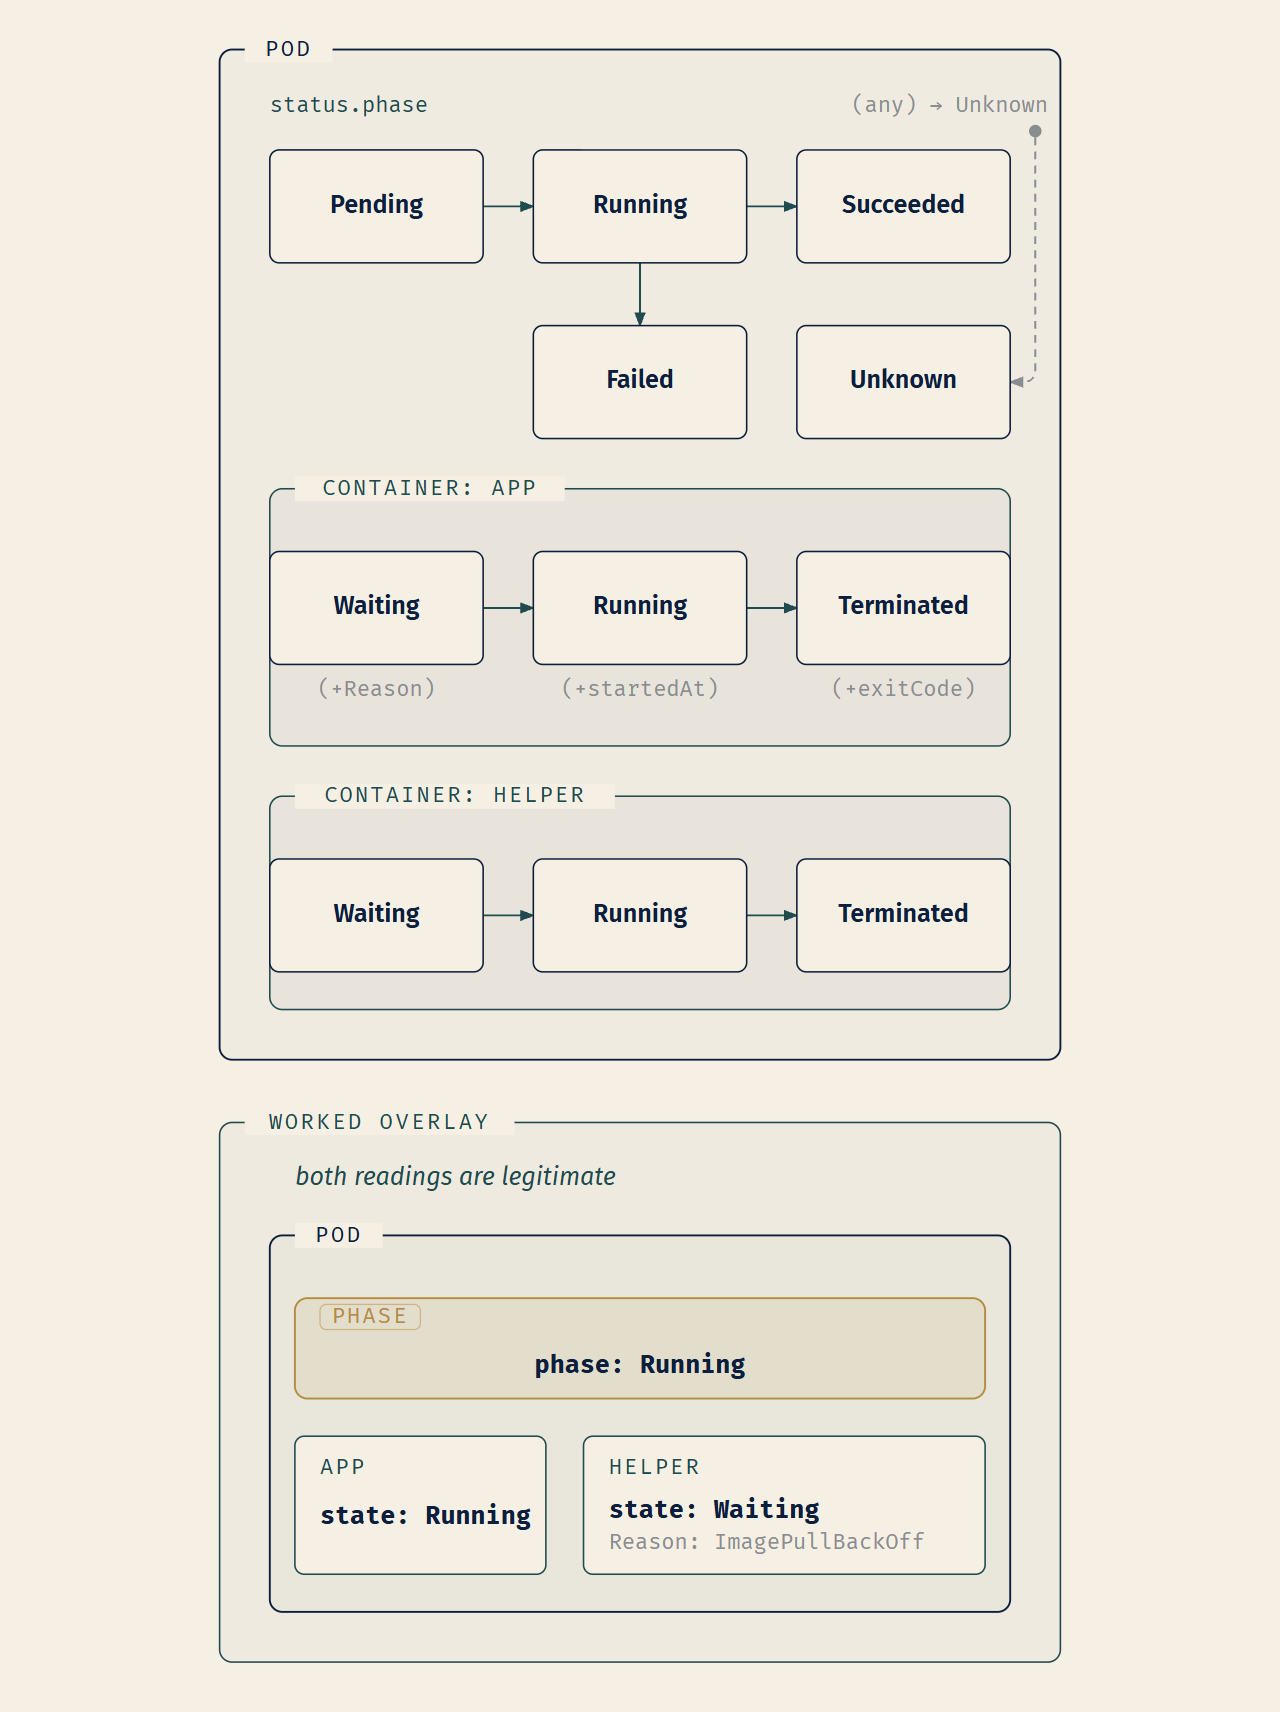
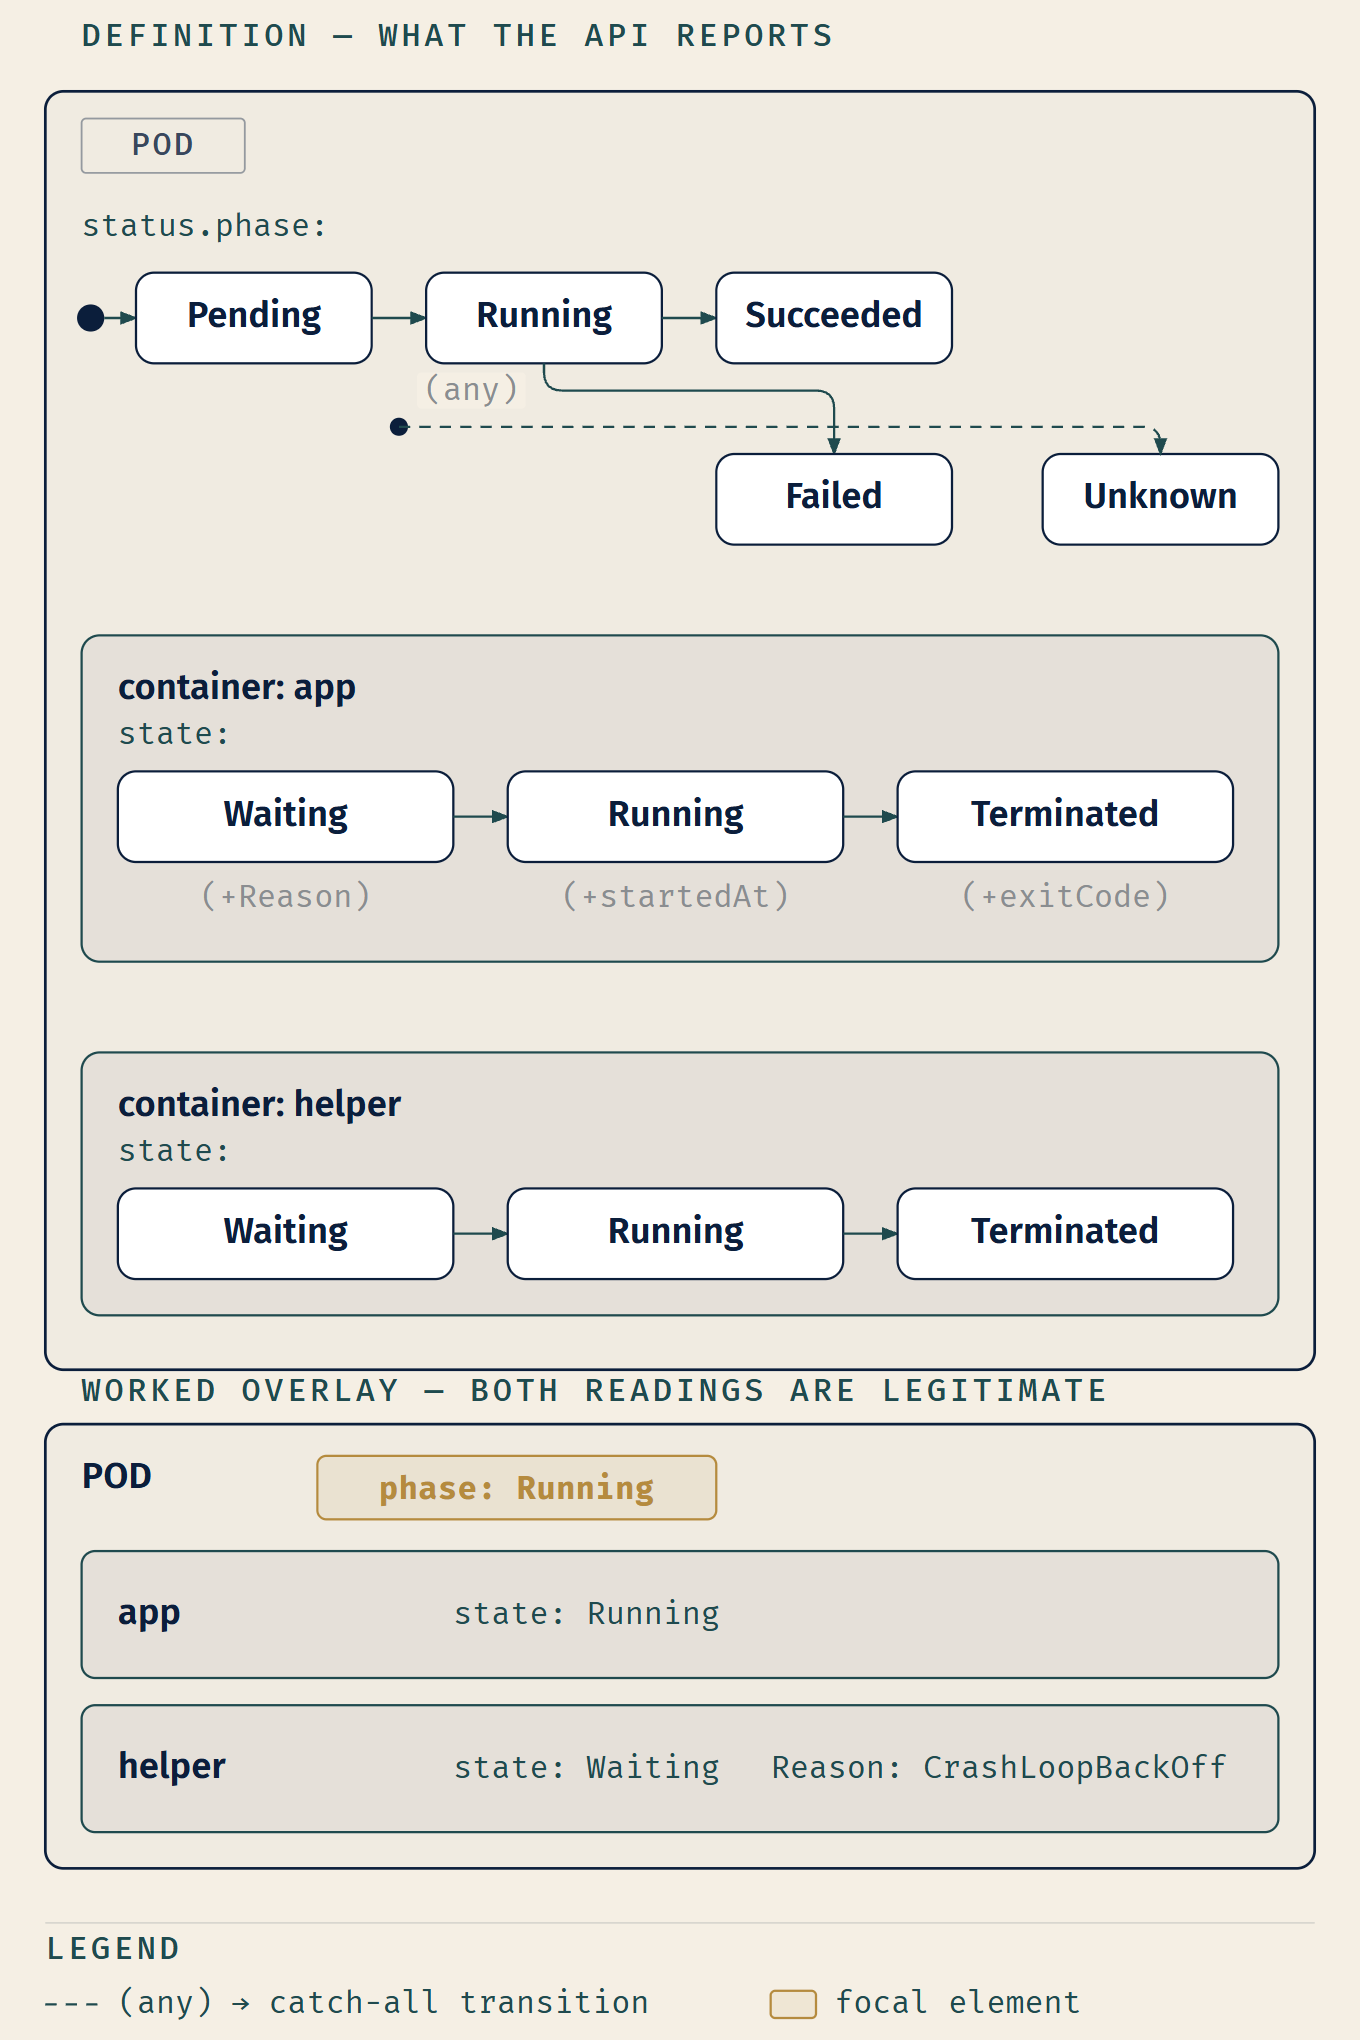
ch05-fig02 regenerated: the worked overlay now pairs phase Running with a helper container Waiting in CrashLoopBackOff, as the prose teaches; regeneration note removed
Claude-Session: https://claude.ai/code/session_017xzPFT9rf4ARsw4oFKb6jK

diff --git a/chapter-05-the-smallest-vessel.md b/chapter-05-the-smallest-vessel.md
@@ -592,7 +592,7 @@ Notice how much more each container state tells you than a phase does. A phase i
 > **Dead Reckoning:** A Pod has exactly one **phase**, which is one of: Pending, Running, Succeeded, Failed, Unknown. Each container in that Pod separately has a **state**, which is one of: Waiting, Running, Terminated. Phase is a Pod-level field in `status`; state is per-container [source: k8s-docs-pod-lifecycle-2026-08-23] [source: k8s-docs-objects-2026-08-23]. A Pod with three containers has one phase and three states. These are different fields with different vocabularies at different scopes. They are not interchangeable.
 
 <!-- FIGURE: ch05-fig02-pod-phases-and-container-states -->
-![A Pod box shows five phase values Pending, Running, Succeeded, Failed and Unknown, and nested inside it two container boxes each show three states Waiting, Running and Terminated; a second panel shows a real instant where the Pod's phase is Running while its helper container's state is Waiting with reason ImagePullBackOff](figures/ch05-fig02-pod-phases-and-container-states.svg)
+![A Pod box shows five phase values Pending, Running, Succeeded, Failed and Unknown, and nested inside it two container boxes each show three states Waiting, Running and Terminated; a second panel shows a real instant where the Pod's phase is Running while its helper container's state is Waiting with reason CrashLoopBackOff](figures/ch05-fig02-pod-phases-and-container-states.svg)
 
 <!-- ASCII-FALLBACK
 ```
@@ -621,8 +621,6 @@ WORKED OVERLAY — both readings are legitimate:
 └─────────────────────────────────────────────────────────────┘
 ```
 -->
-
-<!-- FIGURE-REGEN ch05-fig02: the 2026-09-01 render still labels the worked overlay "Reason: ImagePullBackOff" against "phase: Running", a pairing the prose below rules out (an unpulled image means the container was never created, so the Pod is Pending). Regenerate the overlay with CrashLoopBackOff to match this fallback, then update the alt text to match the new render. -->
 
 The nesting in that figure is the point. Container states are drawn *inside* the Pod because that is the actual relationship: one contains the other. If you find yourself picturing them side by side, as two alternative ways of saying the same thing, the figure has failed and so has the model.
 
